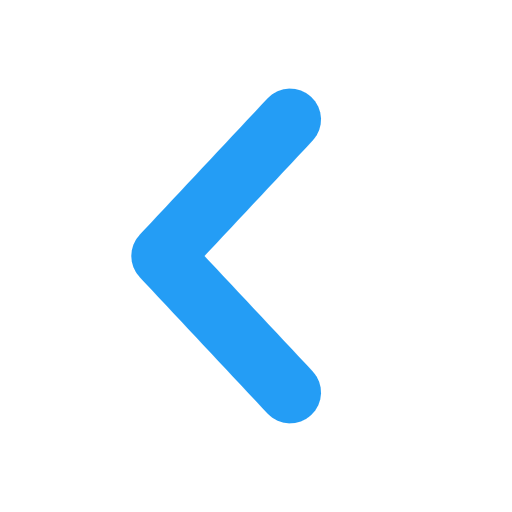
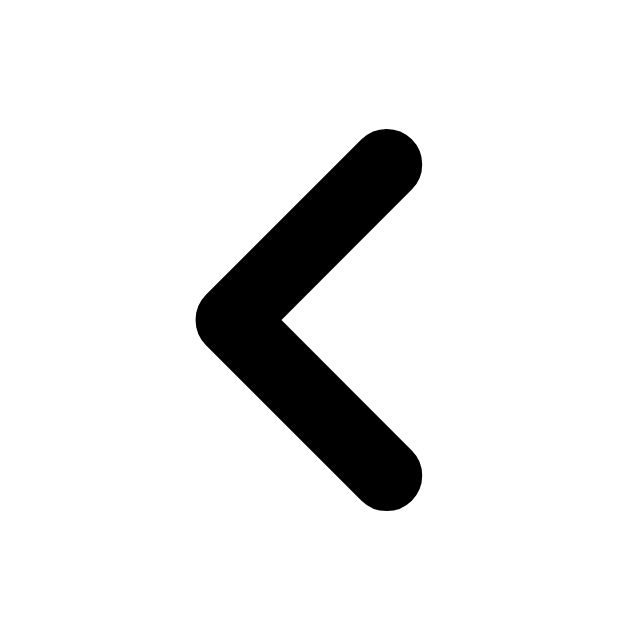
Actualizaciones

Changed region(s): [[0.25, 0.1562, 0.6562, 0.8438]]

diff --git a/FRONTEND/css/index.css b/FRONTEND/css/index.css
@@ -376,7 +376,7 @@ details[open] summary {
   text-decoration: underline;
 }
 
-.carruselesMain {
+.carruselesMain {                     /*main carruseles*/
   height: 100vh;
   display: flex;
   justify-content: center;
@@ -386,12 +386,14 @@ details[open] summary {
     margin: 0;
     padding: 0;
     position: relative;
-    width: 300vh;
-    height: 500px;
+    width: 98%;
+    height: 60%;
     background-color: #e0e0e0;
-    box-shadow: 0 8px 32px 0 black;
+    box-shadow: 0 3px 20px 0 #175788;
     border-radius: 0px;
     overflow: hidden;
+    margin-top: 10px;
+    border-radius: 10px;
 }
 
 .carruseles {
@@ -431,22 +433,30 @@ details[open] summary {
 
 .btn-left:hover,
 .btn-right:hover {
-    background-color: #333333d4;
+    background-color: white;
     color: #fff;
 }
 
 .btn-left {
     left: 10px;
+    background-color: rgb(210, 210, 210);
 }
 
 .btn-right {
     right: 10px;
+    background-color: rgb(210, 210, 210);
 }
 
 #left {
     width: 30px;
+    border-radius: 20px;
 }
 
 #right {
     width: 30px;
+    border-radius: 20px;
+}
+
+main {
+  background-color: rgb(46, 46, 46);
 }
